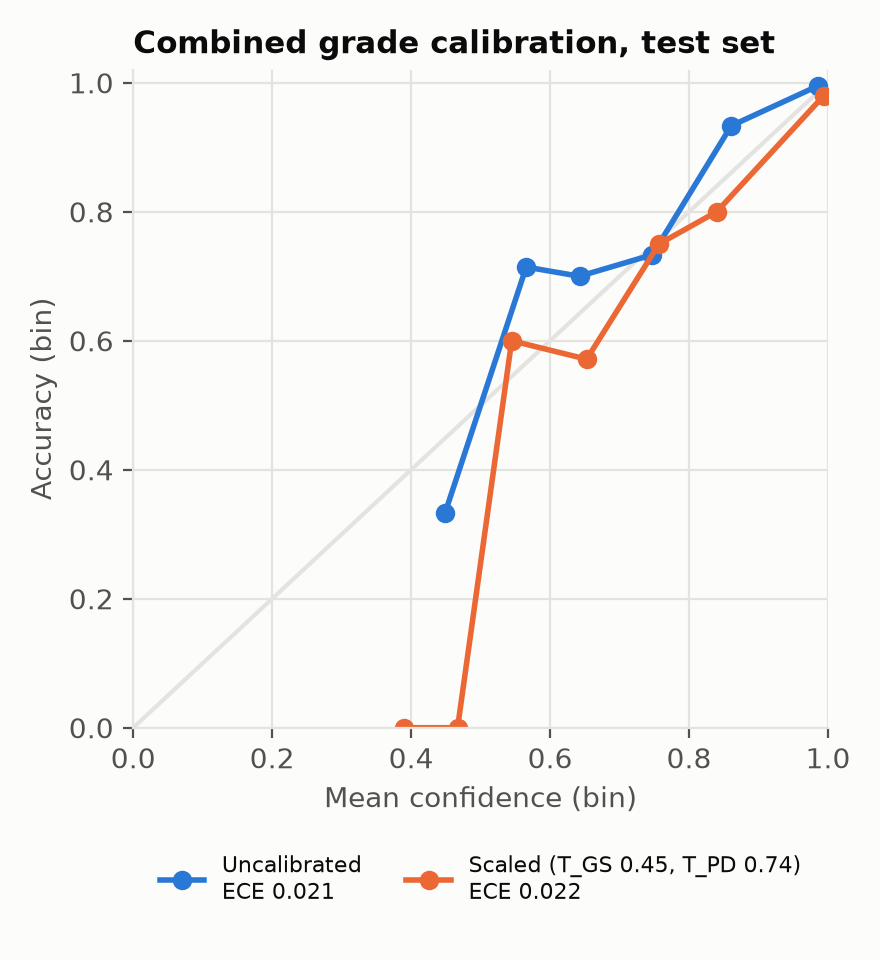
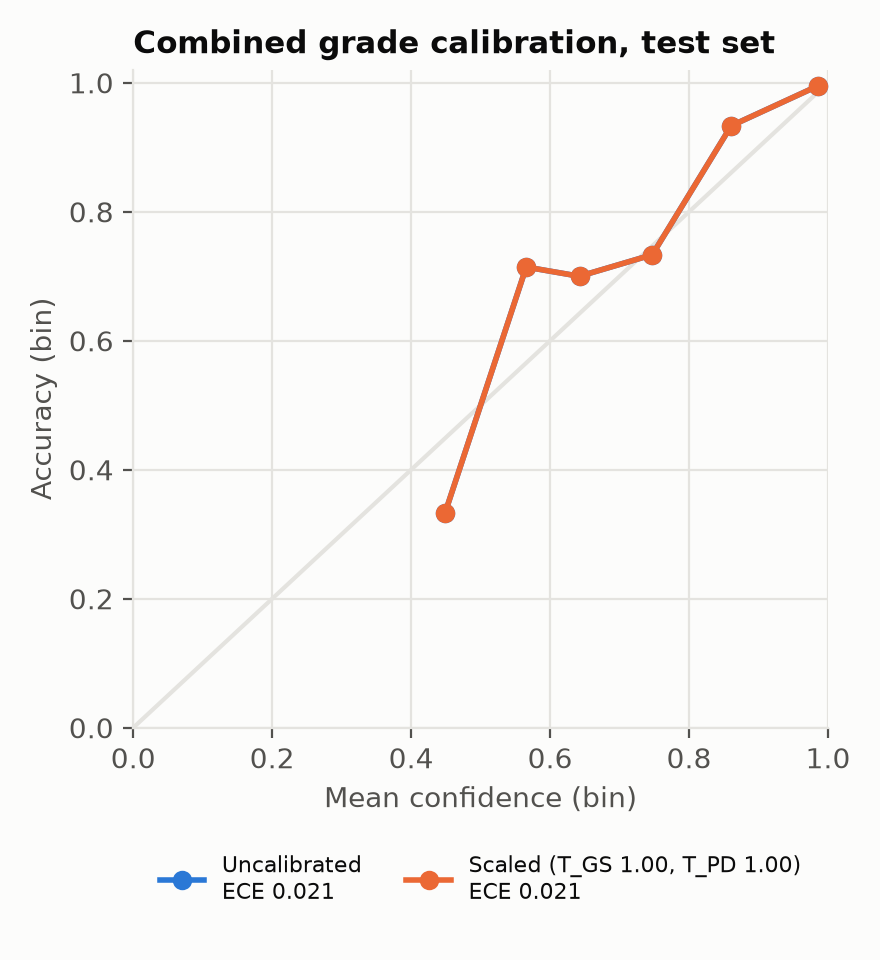
[Add] [paper] : first manuscript draft from logbook notes
- IMRaD draft with synthetic results; clinical parts marked TBD.
- v0004 referral and gated calibration figures.

diff --git a/docs/paper/manuscript.md b/docs/paper/manuscript.md
@@ -1,0 +1,157 @@
+# Manuscript draft (v0.1, 2026-11-13)
+
+> Working draft assembled from the logbook "Paper notes". Every number comes from a logbook entry and a
+> committed script. `[TBD]` = needs clinical data or a run not done yet. `[REF:key]` = citation from
+> `references.md`, to verify before submission. Synthetic results verify the pipeline only; they are not
+> clinical performance and must be presented as such.
+
+**Working title:** Retrainable Deep Learning Tool for EULAR-OMERACT Synovitis Grading on Joint Ultrasound in
+Rheumatoid Arthritis
+
+## Abstract (write last)
+`[TBD]` Background · Methods · Results (primary metric: patient-level combined-grade QWK vs expert, 95 % CI)
+· Conclusions.
+
+## 1. Introduction
+- Rheumatoid arthritis (RA) needs early detection of synovitis; conventional radiography detects late,
+  structural damage. Ultrasound (US) is more sensitive to early inflammatory change but is operator-dependent
+  and shows inter-observer variability, which motivates automated grading [REF:EULAR-OMERACT Part 1/2].
+- EULAR-OMERACT scores grey-scale synovial hypertrophy (GS 0–3) and power Doppler (PD 0–3) per joint, with
+  a combined score; PD is only scored where synovial hypertrophy is present.
+- Prior deep-learning work grades synovitis from US [REF:Andersen 2019; Rheumatology 2023; DIANA;
+  medRxiv 2024 synthetic pre-training], but tools are rarely retrainable by the clinical team, rarely open,
+  and rarely designed for non-technical users.
+- **Aim:** an open, retrainable pre-diagnosis tool for MCP2–3 and wrist (GS + PD, 4-class) that flags
+  low-confidence cases for a specialist, intended to reduce unnecessary referrals to radiography.
+- **Contributions:** (1) reproducible pipeline that runs locally, on Colab and on a self-hosted runner;
+  (2) clinician-in-the-loop retraining with a statistical promotion rule on a frozen test split;
+  (3) scoring-rule-consistent two-head model with explainability and a refer-to-specialist threshold;
+  (4) desktop GUI for non-technical staff, evaluated with SUS `[TBD]`.
+
+## 2. Materials and methods
+
+### 2.1 Data
+- **Staged strategy** (no public synovitis-labelled US dataset): S0 generic US pre-training weights, S1
+  public musculoskeletal US `[TBD]`, S2 synthetic synovitis images, S3 hospital images `[TBD: ethics id,
+  centre, devices, probe ≥ 12 MHz, raters, double-rating ≥ 20 %, inter-rater kappa]`.
+- **Synthetic generator (S2):** procedural renderer of dorsal longitudinal MCP2–3 and wrist (skin,
+  fibrillar tendon, cortical bone with acoustic shadow, cartilage, hypoechoic synovium, Rayleigh speckle,
+  depth attenuation, log compression). GS controls synovial thickness/shape; PD spots inside a colour box
+  follow the EULAR-OMERACT coverage definitions (PD1 ≤ 3 spots, PD2 < 50 %, PD3 > 50 % of synovium,
+  verified per image). 15 % of images contain a vessel outside the synovium as a distractor. Six joints per
+  patient with patient-level disease activity; per-image seeds give exact reproducibility.
+- **Development dataset (v0005):** 1 920 images, 320 synthetic patients (initial 200 + two incoming
+  batches). **Split:** patient-level hash split 70/15/15 with a fixed salt, so the test split stays frozen
+  across all model versions (test: 282 images, 47 patients).
+- **De-identification (S3):** `rausnet.data.deid` — metadata stripped by pixel re-encoding (DICOM → PNG),
+  device-specific cropping of burned-in text, HMAC-SHA256 pseudonyms with a salt kept outside the repository
+  `[TBD: confirm with ethics protocol]`.
+
+### 2.2 Model
+- Input: 4-channel tensor (GS grey + PD RGB), 224 px. Shared ImageNet-pretrained backbone (timm) with two
+  linear 4-class heads (GS, PD); the combined grade is *derived* (0 if GS = 0, else max(GS, PD)), not
+  learned. Combined probabilities: P(c) from independent head probabilities under that rule.
+- **Scoring-rule consistency:** P(PD = d) = P(GS = 0)·[d = 0] + P(GS ≥ 1)·p_PD(d); PD loss masked on GS-0
+  joints (no effect, see Results).
+- Training: class-weighted cross-entropy, AdamW (lr 3·10⁻⁴, ConvNeXt 10⁻⁴), mixed precision, early
+  stopping on validation combined QWK. Augmentation: flip, random crop, gain, Gaussian noise with a
+  **random** level σ ~ U(0, 0.03) and independent fields for GS and PD. An optional US-specific augmentation
+  (rotation, zoom, time-gain ramp, gamma, multiplicative speckle, Doppler gain) was evaluated.
+- **Recipe selection:** patient-level 5-fold CV on train + val only (test untouched); for fold i, train on
+  3 folds, early-stop on fold i+1, predict fold i; out-of-fold (OOF) predictions compared with a paired
+  patient-level bootstrap.
+
+### 2.3 Calibration, explainability, referral
+- Per-head temperature scaling fitted on validation, applied only if (a) a 2-fold patient cross-fit lowers
+  NLL versus T = 1 and (b) the validation predictions are not perfectly separated (no NLL minimum).
+- Grad-CAM: with global average pooling followed by linear heads it reduces exactly to CAM and is computed
+  inside the exported ONNX graph. Localisation measured by the pointing game against the synthetic
+  synovium mask (chance = mask area fraction).
+- **Refer to specialist:** the lowest top-label confidence threshold for which accepted validation cases
+  reach a target accuracy (98 %, to be fixed with clinicians `[TBD]`); reported with coverage and accuracy
+  of accepted and referred cases. Referral never changes the displayed grade.
+
+### 2.4 Retraining loop
+- New labelled data (including clinician corrections from the GUI) enter as immutable, hashed manifests;
+  each candidate (fine-tuned or trained from scratch with a new recipe) is compared with the deployed model
+  on the identical frozen test split by a paired patient-level bootstrap (2 000 resamples) of the
+  combined-grade QWK difference, and rejected only if the whole 95 % CI lies below 0. Promoted models are
+  calibrated and exported automatically and stored in a versioned registry.
+
+### 2.5 Software and deployment
+- ONNX export (max |Δ| vs PyTorch ≈ 2·10⁻⁶); FastAPI service on ONNX Runtime (~35 ms per image pair on
+  CPU); PySide6 desktop client (Spanish/English) with heat maps, refer warning, correction submission and
+  PDF report; Docker image for research servers and Windows installer.
+- Runtimes: local CPU/GPU, Google Colab (free tier, resumable training), self-hosted GitHub runner
+  (manual dispatch). Equivalence judged by paired bootstrap, not identical weights.
+
+### 2.6 Statistics
+- Primary: combined-grade quadratic weighted kappa (QWK). Secondary: GS and PD QWK, accuracy, balanced
+  accuracy, per-class recall, AUC (grade ≥ 2), ECE, NLL, coverage. All 95 % CIs by patient-level
+  (cluster) bootstrap, 2 000 resamples. Metrics fixed before clinical data (see `docs/paper/README.md`).
+
+## 3. Results
+
+### 3.1 Synthetic data (pipeline verification)
+| Item | Result |
+|---|---|
+| Baseline B0, 200 patients (v0001) | test combined QWK 0.908 |
+| PD scoring rule (same model, v0003) | PD QWK 0.807 → 0.950; GS-0 PD false positives 5 → 0 |
+| PD loss masking (v0004 vs ablation) | ΔQWK +0.003 (−0.003, +0.011): no effect |
+| Augmentation bug (fixed noise level) | clean-image QWK 0.10 vs 0.91 with noise; fixed by random level |
+| **Final model v0005** (B0, fixed aug.) | test combined QWK **0.993 (0.984–0.998)**, GS 1.000, PD 0.992 |
+| v0005 vs v0004 (promotion) | Δ +0.047 (+0.015, +0.098) |
+| Grad-CAM pointing game (v0005) | GS 100 %, PD 100 % (chance 8 %) |
+| Calibration (v0005) | T_GS rejected (separable), T_PD 1.30; test ECE 0.013 → 0.018 (≈ 4 errors / 282) |
+| Referral, 98 % target (v0004 / v0005) | v0004: 97 % coverage, 96 % accepted accuracy on test (val 98 %); v0005: 100 % coverage |
+| CPU vs GPU training | Δ +0.009 (−0.018, +0.036): equivalent |
+
+**Table 2 – Recipe comparison, 5-fold CV, OOF combined QWK (1 638 images / 273 patients)**
+| Recipe | OOF QWK (95 % CI) | Δ vs B0 basic (paired 95 % CI) |
+|---|---|---|
+| EfficientNet-B0, basic aug. | 0.991 (0.987–0.994) | — |
+| ConvNeXt-nano, US aug. | 0.991 (0.987–0.994) | +0.000 (−0.004, +0.004) |
+| B0, no PD masking | 0.990 (0.986–0.993) | −0.001 (−0.003, +0.001) |
+| ResNet-34, US aug. | 0.985 (0.981–0.989) | −0.006 (−0.010, −0.001) |
+| DeiT-small, US aug. | 0.984 (0.979–0.988) | −0.007 (−0.012, −0.003) |
+| B0, US aug. | 0.979 (0.974–0.984) | −0.012 (−0.017, −0.007) |
+
+Figures: `synthetic_examples.png`, `cv_comparison.png`, `v0005_confusion.png`, `v0005_curves.png`,
+`gradcam_examples.png`, `calibration_v0005.png`, `referral_v0004.png`/`referral_v0005.png`, `gui_desktop_gradcam.png`.
+
+### 3.2 Clinical data `[TBD]`
+- Inter-rater agreement; test QWK/AUC vs expert with CIs; comparison with literature table; confusion matrix
+  and ROC; referral coverage at the agreed target; retraining curve (performance vs added data).
+
+### 3.3 Usability `[TBD]`
+- SUS score (≥ 3 non-technical users), task completion time, qualitative feedback.
+
+### 3.4 Runtimes `[TBD]`
+- Colab and self-hosted runner runs vs local, paired bootstrap.
+
+## 4. Discussion
+- **Main message (provisional):** the full retrainable pipeline works end-to-end and encodes the
+  EULAR-OMERACT rules; clinical validity is not yet established.
+- Encoding the scoring rule (PD conditioned on GS) gave a larger gain than any architecture change.
+- Synthetic data saturate (≈ 0.99): architecture rankings and the negative effect of US augmentation reflect
+  the generator's low acquisition variability and must be repeated on real images.
+- A subtle augmentation bug (fixed noise level) degraded every model for several versions without failing
+  training; out-of-fold CV and from-scratch retraining exposed it. Lesson: evaluate on clean inputs and
+  re-validate recipes from scratch.
+- Calibration and referral thresholds fitted on a few hundred validation images were optimistic or
+  degenerate; we gate them and report coverage/accepted accuracy rather than bare thresholds.
+
+### Limitations
+- Idealised synthetic anatomy and acoustics (no reverberation, anisotropy, device artefacts); large expected
+  synthetic-to-real gap. Single centre `[TBD]`. Joint-level, not patient-level diagnosis. Training is not
+  bit-reproducible across devices.
+
+## 5. Conclusions
+`[TBD]`
+
+## Ethics, data and code availability
+- Ethics approval `[TBD]`; anonymisation procedure (§2.1). Code: GitHub repository, release tag `v1.0`
+  `[TBD]`; model card and dataset manifests (hashes) in the registry.
+
+## Author contributions
+`[TBD]` (maximum three contributors).
